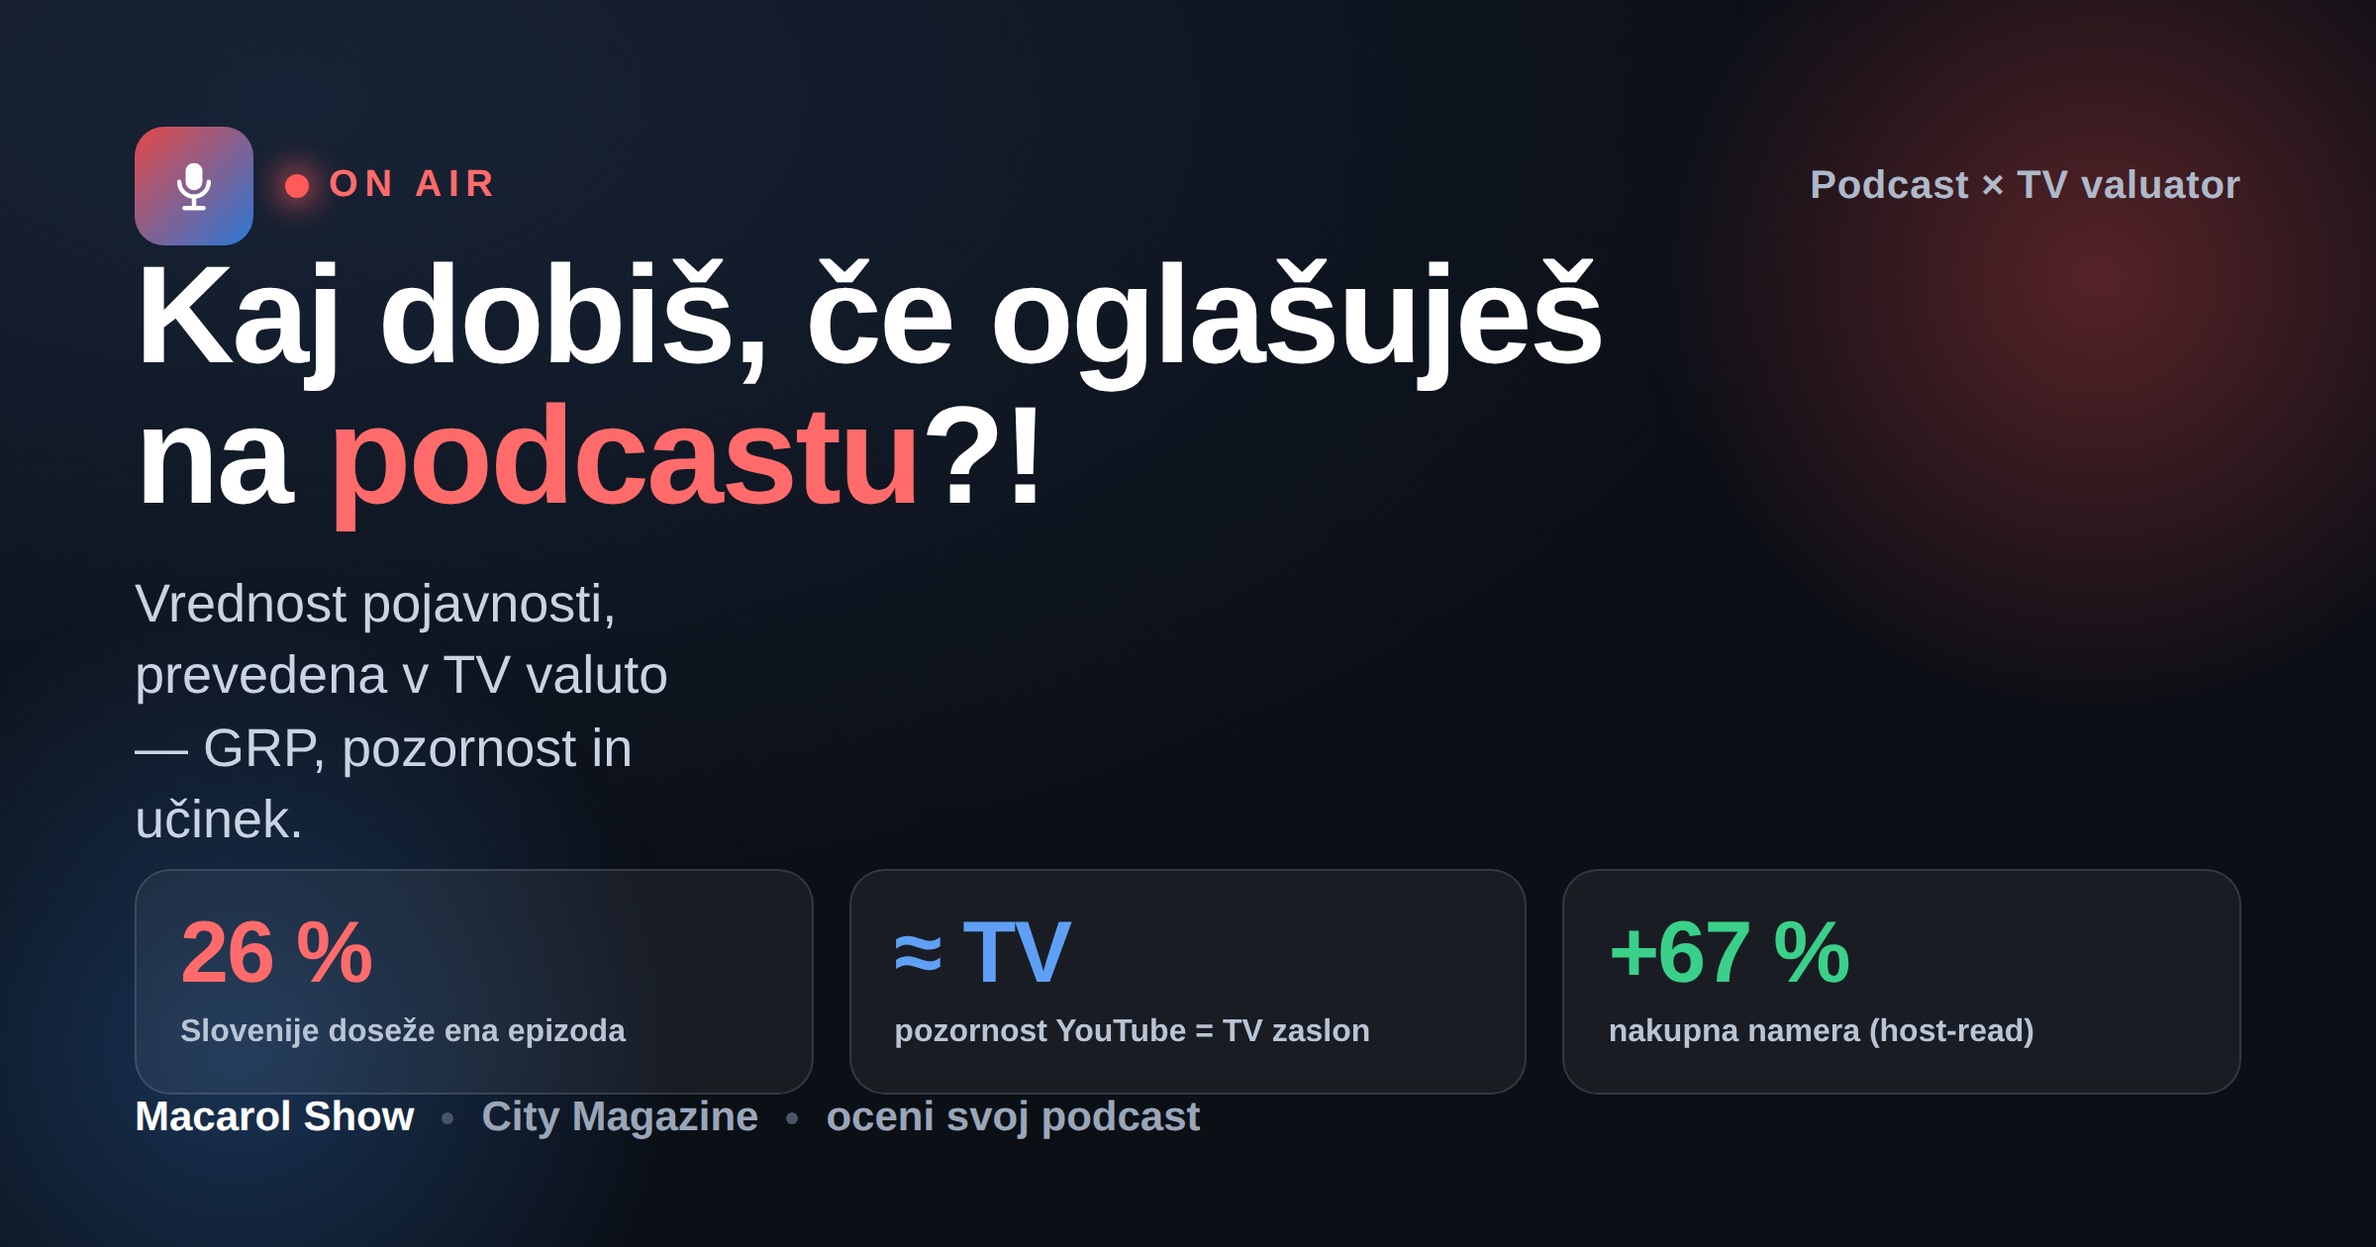
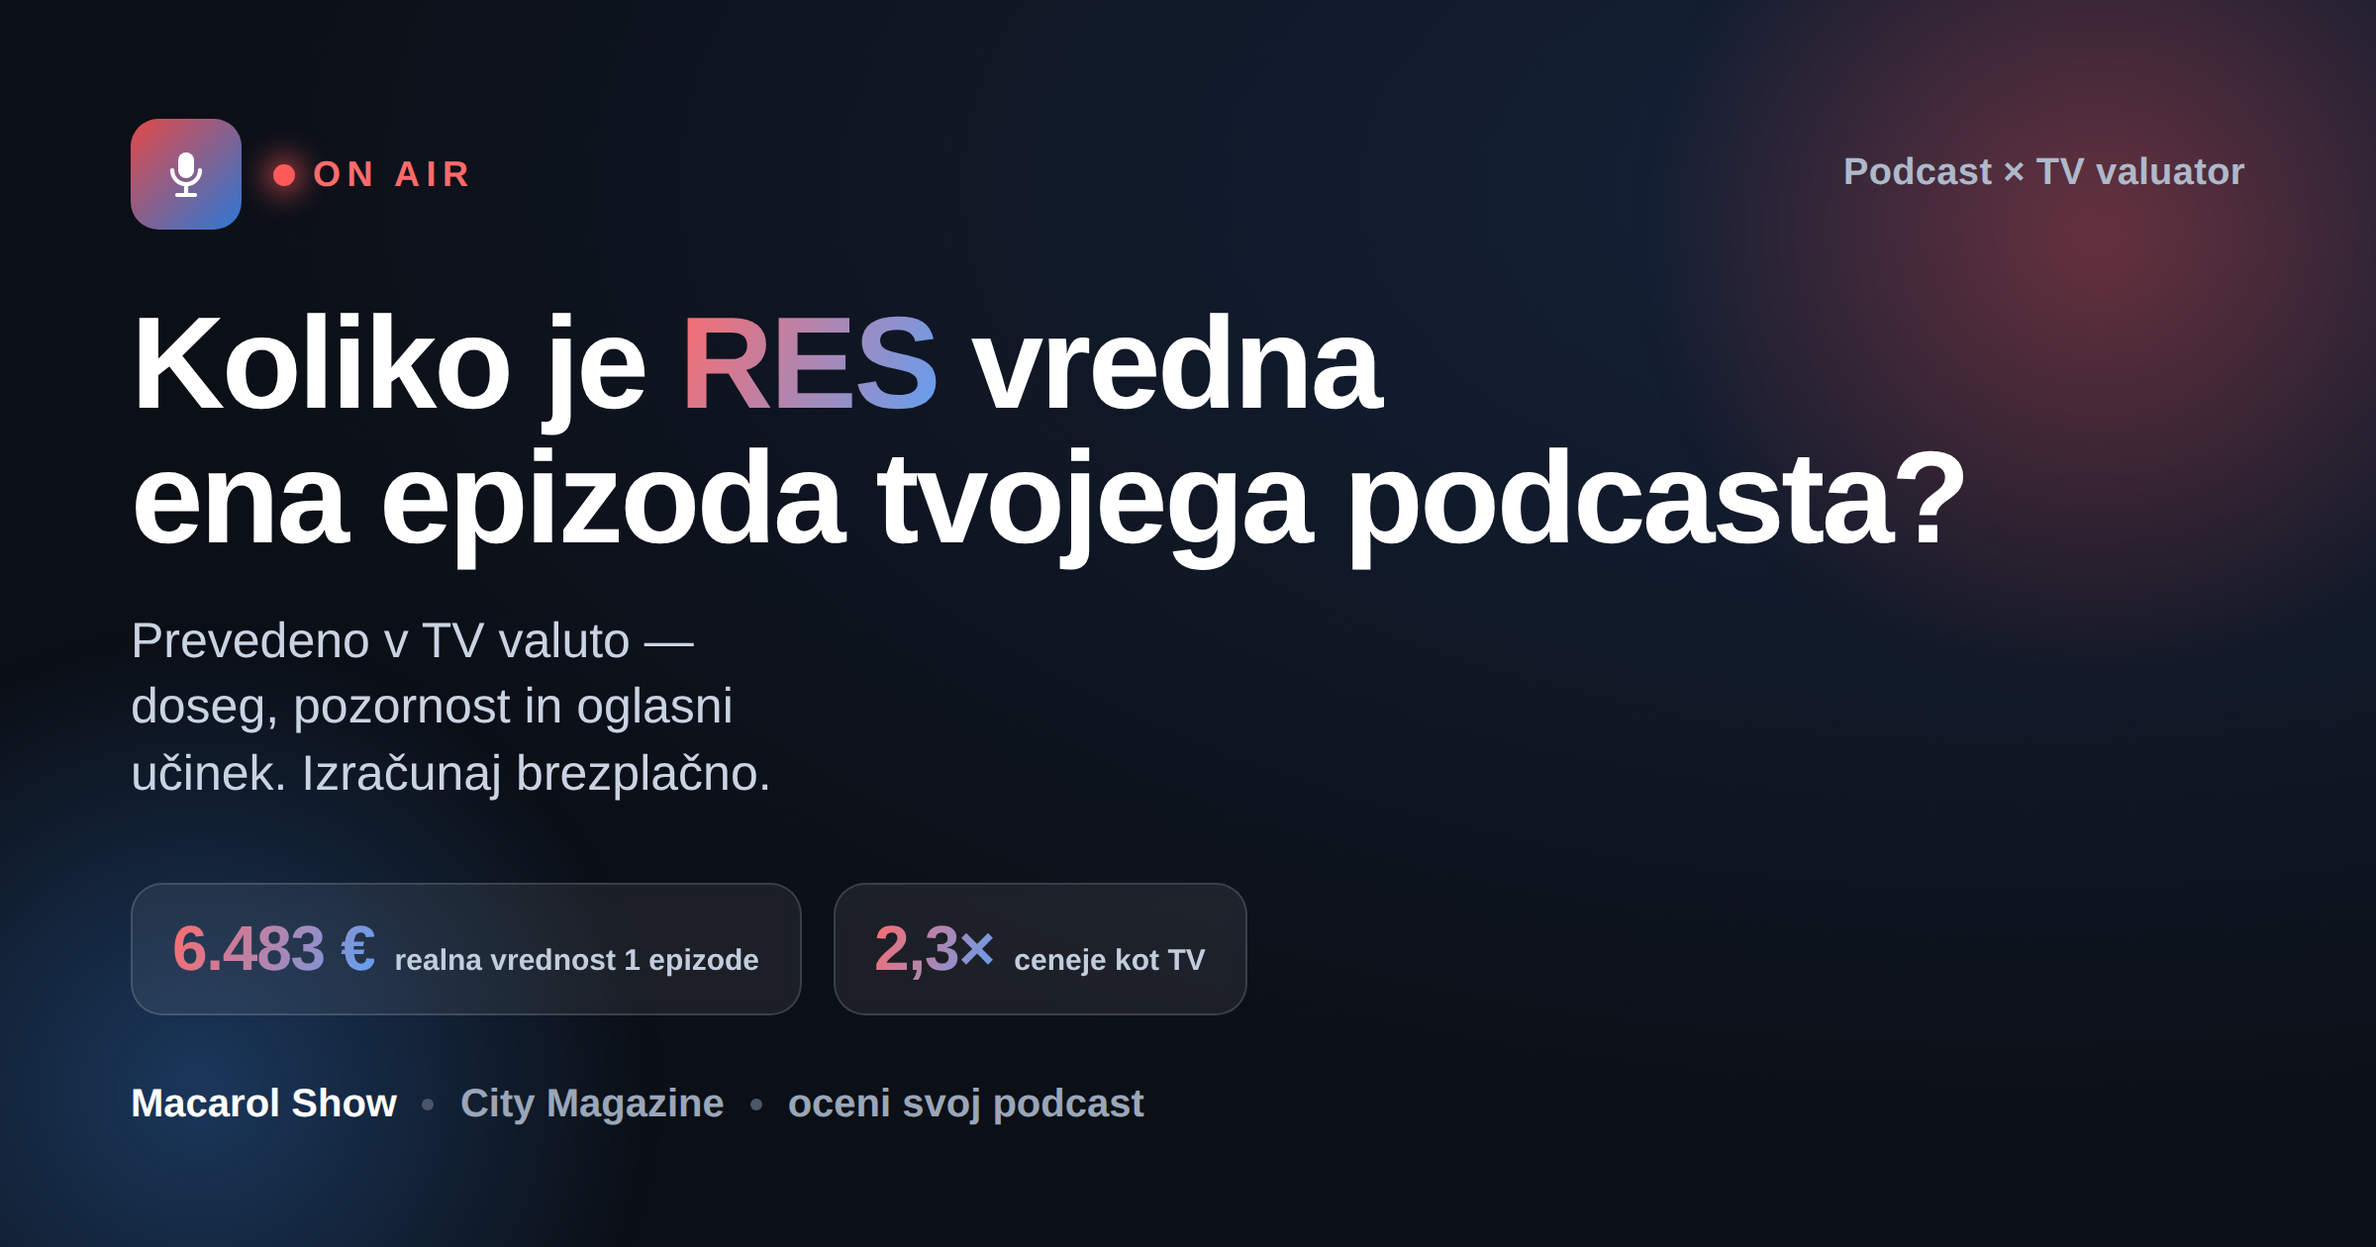
Novi clickbait OG images + posodobljen OG meta
- 4 nove share slike (assets/): og-cover.png (vprašalni kavelj + 6.483 EUR /
  2,3x ceneje), og-provokacija.png ('Zakaj pametni oglaševalci zapuščajo TV'),
  og-stevilka.png (velika 6.483 EUR), share-square.png (1080)
- Prenovljen assets/share-template.html s štirimi variantami
- OG/Twitter meta usklajen z novo primarno sliko (naslov, opis, alt)

Claude-Session: https://claude.ai/code/session_01DFQCwydQcWfLKzkBoLtrAo

diff --git a/assets/share-template.html b/assets/share-template.html
@@ -2,91 +2,142 @@
 <html lang="sl"><head><meta charset="utf-8">
 <style>
 *{margin:0;padding:0;box-sizing:border-box}
-body{background:#333;font-family:-apple-system,BlinkMacSystemFont,"Segoe UI",Roboto,Arial,sans-serif}
-.card{position:relative;overflow:hidden;color:#fff;
-  background:radial-gradient(120% 120% at 12% 8%, #172336 0%, #0b0f16 55%, #0b0f16 100%);
-  display:flex;flex-direction:column;justify-content:space-between}
-.card::before{content:"";position:absolute;right:-120px;top:-120px;width:520px;height:520px;border-radius:50%;
-  background:radial-gradient(circle, rgba(227,73,72,.35), transparent 62%);filter:blur(8px)}
-.card::after{content:"";position:absolute;left:-140px;bottom:-160px;width:520px;height:520px;border-radius:50%;
-  background:radial-gradient(circle, rgba(58,135,229,.30), transparent 62%);filter:blur(8px)}
-.pad{position:relative;z-index:2;padding:64px 68px;display:flex;flex-direction:column;justify-content:space-between;height:100%}
+body{background:#222;font-family:-apple-system,BlinkMacSystemFont,"Segoe UI",Roboto,Arial,sans-serif}
+.card{position:relative;overflow:hidden;color:#fff;display:flex;flex-direction:column;margin:0 0 40px}
+.pad{position:relative;z-index:3;padding:60px 66px;display:flex;flex-direction:column;justify-content:space-between;height:100%}
 .top{display:flex;align-items:center;gap:16px}
-.mic{width:60px;height:60px;border-radius:15px;background:linear-gradient(135deg,#e34948,#2a78d6);display:flex;align-items:center;justify-content:center}
-.onair{display:inline-flex;align-items:center;gap:10px;font-size:19px;font-weight:800;letter-spacing:.18em;text-transform:uppercase;color:#ff6b6b}
-.onair .dot{width:12px;height:12px;border-radius:50%;background:#ff5a5a;box-shadow:0 0 16px 3px rgba(255,90,90,.8)}
-.kicker{margin-left:auto;font-size:20px;font-weight:600;color:#aeb9c9;letter-spacing:.02em}
-h1{font-weight:850;letter-spacing:-.02em;line-height:1.02;text-wrap:balance}
-h1 .em{color:#ff6b6b}
+.mic{width:56px;height:56px;border-radius:14px;background:linear-gradient(135deg,#e34948,#2a78d6);display:flex;align-items:center;justify-content:center;flex:none}
+.onair{display:inline-flex;align-items:center;gap:9px;font-size:18px;font-weight:800;letter-spacing:.18em;text-transform:uppercase;color:#ff6b6b}
+.onair .dot{width:11px;height:11px;border-radius:50%;background:#ff5a5a;box-shadow:0 0 15px 3px rgba(255,90,90,.8)}
+.kicker{margin-left:auto;font-size:19px;font-weight:700;color:#aeb9c9;letter-spacing:.01em}
+h1{font-weight:850;letter-spacing:-.025em;line-height:1.03;text-wrap:balance}
 .sub{color:#c9d3e2;font-weight:500;line-height:1.35}
-.stats{display:flex;gap:18px}
-.stat{background:rgba(255,255,255,.06);border:1px solid rgba(255,255,255,.12);border-radius:18px;padding:20px 22px;flex:1;backdrop-filter:blur(4px)}
-.stat .n{font-weight:850;letter-spacing:-.02em;line-height:1}
-.stat .l{color:#b9c4d4;font-weight:600;margin-top:8px;line-height:1.25}
-.stat.a .n{color:#ff6b6b}.stat.b .n{color:#5fa0f5}.stat.c .n{color:#3ad08a}
-.foot{display:flex;align-items:center;gap:14px;color:#9aa6b8;font-weight:600}
+.foot{display:flex;align-items:center;gap:13px;color:#9aa6b8;font-weight:600;font-size:20px}
 .foot .sep{width:6px;height:6px;border-radius:50%;background:#4a5567}
-.brandname{color:#fff}
+.foot .brandname{color:#fff}
+.grad{background:linear-gradient(115deg,#ff6b6b 0%,#5fa0f5 100%);-webkit-background-clip:text;background-clip:text;color:transparent}
+.chip{display:inline-flex;align-items:baseline;gap:10px;background:rgba(255,255,255,.07);border:1px solid rgba(255,255,255,.14);
+  border-radius:16px;padding:14px 20px;backdrop-filter:blur(4px)}
+.chip .cn{font-weight:850;letter-spacing:-.02em}
+.chip .cl{color:#c2cddd;font-weight:600}
+.glow{position:absolute;border-radius:50%;filter:blur(10px);z-index:1}
 
-/* OG 1200x630 */
-#og{width:1200px;height:630px}
-#og h1{font-size:70px}
-#og .sub{font-size:27px;margin-top:20px;max-width:20ch}
-#og .stats{margin-top:6px}
-#og .stat .n{font-size:44px}
-#og .stat .l{font-size:16px}
-#og .foot{font-size:21px}
+/* ============ OG 1 — question hook ============ */
+#og1{width:1200px;height:630px;background:radial-gradient(130% 130% at 85% 15%, #16233a 0%, #0b0f16 60%)}
+#og1 .g1{right:-120px;top:-140px;width:520px;height:520px;background:radial-gradient(circle,rgba(227,73,72,.4),transparent 62%)}
+#og1 .g2{left:-160px;bottom:-180px;width:520px;height:520px;background:radial-gradient(circle,rgba(58,135,229,.34),transparent 62%)}
+#og1 h1{font-size:66px}
+#og1 .sub{font-size:25px;margin-top:22px;max-width:26ch}
+#og1 .chips{display:flex;gap:16px;margin-top:4px}
+#og1 .chip .cn{font-size:32px}
+#og1 .chip .cl{font-size:15px}
 
-/* Square 1080x1080 */
-#sq{width:1080px;height:1080px;margin-top:40px}
-#sq h1{font-size:96px}
-#sq .sub{font-size:34px;margin-top:26px;max-width:18ch}
-#sq .stat .n{font-size:60px}
-#sq .stat .l{font-size:21px}
-#sq .foot{font-size:26px}
-#sq .stats{flex-direction:column}
-#sq .stat{display:flex;align-items:baseline;gap:20px}
-#sq .stat .l{margin-top:0}
+/* ============ OG 2 — provocation, leave TV ============ */
+#og2{width:1200px;height:630px;background:linear-gradient(160deg,#0b1b30 0%,#0b0f16 70%)}
+#og2 .g1{left:-140px;top:-160px;width:560px;height:560px;background:radial-gradient(circle,rgba(58,135,229,.4),transparent 62%)}
+#og2 h1{font-size:70px}
+#og2 h1 .em{color:#ff6b6b}
+#og2 .stats{display:flex;gap:18px}
+#og2 .stat{flex:1;background:rgba(255,255,255,.06);border:1px solid rgba(255,255,255,.13);border-radius:18px;padding:20px 22px}
+#og2 .stat .n{font-weight:850;font-size:42px;letter-spacing:-.02em}
+#og2 .stat.a .n{color:#ff6b6b}#og2 .stat.b .n{color:#5fa0f5}#og2 .stat.c .n{color:#3ad08a}
+#og2 .stat .l{color:#b9c4d4;font-weight:600;font-size:16px;margin-top:8px;line-height:1.25}
+
+/* ============ OG 3 — the big number ============ */
+#og3{width:1200px;height:630px;background:radial-gradient(120% 120% at 15% 12%, #1a1330 0%, #0a0e15 60%)}
+#og3 .g1{right:-120px;bottom:-160px;width:600px;height:600px;background:radial-gradient(circle,rgba(227,73,72,.34),transparent 60%)}
+#og3 .g2{right:180px;top:-160px;width:460px;height:460px;background:radial-gradient(circle,rgba(58,135,229,.3),transparent 62%)}
+#og3 .huge{font-size:190px;font-weight:850;letter-spacing:-.04em;line-height:.9}
+#og3 h1{font-size:44px;margin-top:6px}
+#og3 .sub{font-size:22px;margin-top:14px;max-width:34ch}
+
+/* ============ Square 1080 ============ */
+#sq{width:1080px;height:1080px;background:radial-gradient(130% 130% at 80% 10%, #16233a 0%, #0b0f16 62%)}
+#sq .g1{right:-160px;top:-160px;width:620px;height:620px;background:radial-gradient(circle,rgba(227,73,72,.4),transparent 62%)}
+#sq .g2{left:-180px;bottom:-200px;width:620px;height:620px;background:radial-gradient(circle,rgba(58,135,229,.32),transparent 62%)}
+#sq h1{font-size:92px}
+#sq .huge{font-size:150px;font-weight:850;letter-spacing:-.03em;line-height:.9;margin-top:8px}
+#sq .sub{font-size:32px;margin-top:24px;max-width:20ch}
+#sq .foot{font-size:25px}
 </style></head>
 <body>
 
-<div class="card" id="og">
+<!-- OG 1: QUESTION HOOK -->
+<div class="card" id="og1">
+  <span class="glow g1"></span><span class="glow g2"></span>
   <div class="pad">
     <div class="top">
-      <span class="mic"><svg width="34" height="34" viewBox="0 0 32 32"><rect x="12" y="5" width="8" height="13" rx="4" fill="#fff"/><path d="M9 14a7 7 0 0 0 14 0" fill="none" stroke="#fff" stroke-width="2.1" stroke-linecap="round"/><line x1="16" y1="21" x2="16" y2="25.5" stroke="#fff" stroke-width="2.1" stroke-linecap="round"/><line x1="11.5" y1="26.5" x2="20.5" y2="26.5" stroke="#fff" stroke-width="2.1" stroke-linecap="round"/></svg></span>
+      <span class="mic"><svg width="32" height="32" viewBox="0 0 32 32"><rect x="12" y="5" width="8" height="13" rx="4" fill="#fff"/><path d="M9 14a7 7 0 0 0 14 0" fill="none" stroke="#fff" stroke-width="2.1" stroke-linecap="round"/><line x1="16" y1="21" x2="16" y2="25.5" stroke="#fff" stroke-width="2.1" stroke-linecap="round"/><line x1="11.5" y1="26.5" x2="20.5" y2="26.5" stroke="#fff" stroke-width="2.1" stroke-linecap="round"/></svg></span>
       <span class="onair"><span class="dot"></span>On air</span>
       <span class="kicker">Podcast × TV valuator</span>
     </div>
     <div>
-      <h1>Kaj dobiš, če oglašuješ<br>na <span class="em">podcastu</span>?!</h1>
-      <div class="sub">Vrednost pojavnosti, prevedena v TV valuto — GRP, pozornost in učinek.</div>
+      <h1>Koliko je <span class="grad">RES</span> vredna<br>ena epizoda tvojega podcasta?</h1>
+      <div class="sub">Prevedeno v TV valuto — doseg, pozornost in oglasni učinek. Izračunaj brezplačno.</div>
+    </div>
+    <div class="chips">
+      <span class="chip"><span class="cn grad">6.483 €</span><span class="cl">realna vrednost 1 epizode</span></span>
+      <span class="chip"><span class="cn grad">2,3×</span><span class="cl">ceneje kot TV</span></span>
+    </div>
+    <div class="foot"><span class="brandname">Macarol Show</span><span class="sep"></span>City Magazine<span class="sep"></span>oceni svoj podcast</div>
+  </div>
+</div>
+
+<!-- OG 2: PROVOCATION -->
+<div class="card" id="og2">
+  <span class="glow g1"></span>
+  <div class="pad">
+    <div class="top">
+      <span class="mic"><svg width="32" height="32" viewBox="0 0 32 32"><rect x="12" y="5" width="8" height="13" rx="4" fill="#fff"/><path d="M9 14a7 7 0 0 0 14 0" fill="none" stroke="#fff" stroke-width="2.1" stroke-linecap="round"/><line x1="16" y1="21" x2="16" y2="25.5" stroke="#fff" stroke-width="2.1" stroke-linecap="round"/><line x1="11.5" y1="26.5" x2="20.5" y2="26.5" stroke="#fff" stroke-width="2.1" stroke-linecap="round"/></svg></span>
+      <span class="onair"><span class="dot"></span>On air</span>
+      <span class="kicker">Podcast × TV valuator</span>
+    </div>
+    <div>
+      <h1>Zakaj pametni oglaševalci<br><span class="em">zapuščajo TV</span>.</h1>
+      <div class="sub" style="font-size:23px;margin-top:18px;max-width:30ch">Linearna TV je padla pod polovico gledanosti — pozornost pa v telefon.</div>
     </div>
     <div class="stats">
-      <div class="stat a"><div class="n">26 %</div><div class="l">Slovenije doseže ena epizoda</div></div>
-      <div class="stat b"><div class="n">≈ TV</div><div class="l">pozornost YouTube = TV zaslon</div></div>
+      <div class="stat a"><div class="n">26 %</div><div class="l">Slovenije v eni epizodi</div></div>
+      <div class="stat b"><div class="n">≥ TV</div><div class="l">pozornost audia in YouTuba</div></div>
       <div class="stat c"><div class="n">+67 %</div><div class="l">nakupna namera (host-read)</div></div>
     </div>
     <div class="foot"><span class="brandname">Macarol Show</span><span class="sep"></span>City Magazine<span class="sep"></span>oceni svoj podcast</div>
   </div>
 </div>
 
-<div class="card" id="sq">
+<!-- OG 3: BIG NUMBER -->
+<div class="card" id="og3">
+  <span class="glow g1"></span><span class="glow g2"></span>
   <div class="pad">
     <div class="top">
-      <span class="mic"><svg width="34" height="34" viewBox="0 0 32 32"><rect x="12" y="5" width="8" height="13" rx="4" fill="#fff"/><path d="M9 14a7 7 0 0 0 14 0" fill="none" stroke="#fff" stroke-width="2.1" stroke-linecap="round"/><line x1="16" y1="21" x2="16" y2="25.5" stroke="#fff" stroke-width="2.1" stroke-linecap="round"/><line x1="11.5" y1="26.5" x2="20.5" y2="26.5" stroke="#fff" stroke-width="2.1" stroke-linecap="round"/></svg></span>
+      <span class="mic"><svg width="32" height="32" viewBox="0 0 32 32"><rect x="12" y="5" width="8" height="13" rx="4" fill="#fff"/><path d="M9 14a7 7 0 0 0 14 0" fill="none" stroke="#fff" stroke-width="2.1" stroke-linecap="round"/><line x1="16" y1="21" x2="16" y2="25.5" stroke="#fff" stroke-width="2.1" stroke-linecap="round"/><line x1="11.5" y1="26.5" x2="20.5" y2="26.5" stroke="#fff" stroke-width="2.1" stroke-linecap="round"/></svg></span>
       <span class="onair"><span class="dot"></span>On air</span>
       <span class="kicker">Podcast × TV valuator</span>
     </div>
     <div>
-      <h1>Kaj dobiš, če oglašuješ na <span class="em">podcastu</span>?!</h1>
-      <div class="sub">Vrednost pojavnosti, prevedena v TV valuto.</div>
-    </div>
-    <div class="stats">
-      <div class="stat a"><div class="n">26 %</div><div class="l">Slovenije doseže ena epizoda podcasta</div></div>
-      <div class="stat b"><div class="n">≈ TV</div><div class="l">pozornost YouTuba je enaka TV zaslonu</div></div>
-      <div class="stat c"><div class="n">+67 %</div><div class="l">višja nakupna namera po priporočilu voditelja</div></div>
+      <div class="huge grad">6.483&nbsp;€</div>
+      <h1>Toliko je vredna <span class="grad">ena epizoda</span>. Tvoja?</h1>
+      <div class="sub">Realna vrednost z vsemi elementi: utežena pozornost formatov, kredibilnost creatorja in upad TV učinka.</div>
     </div>
     <div class="foot"><span class="brandname">Macarol Show</span><span class="sep"></span>City Magazine<span class="sep"></span>oceni svoj podcast</div>
+  </div>
+</div>
+
+<!-- SQUARE -->
+<div class="card" id="sq">
+  <span class="glow g1"></span><span class="glow g2"></span>
+  <div class="pad">
+    <div class="top">
+      <span class="mic"><svg width="32" height="32" viewBox="0 0 32 32"><rect x="12" y="5" width="8" height="13" rx="4" fill="#fff"/><path d="M9 14a7 7 0 0 0 14 0" fill="none" stroke="#fff" stroke-width="2.1" stroke-linecap="round"/><line x1="16" y1="21" x2="16" y2="25.5" stroke="#fff" stroke-width="2.1" stroke-linecap="round"/><line x1="11.5" y1="26.5" x2="20.5" y2="26.5" stroke="#fff" stroke-width="2.1" stroke-linecap="round"/></svg></span>
+      <span class="onair"><span class="dot"></span>On air</span>
+      <span class="kicker">Podcast × TV</span>
+    </div>
+    <div>
+      <h1>Koliko je <span class="grad">RES</span> vredna ena epizoda?</h1>
+      <div class="huge grad">6.483&nbsp;€</div>
+      <div class="sub">Doseg podcasta, prevedeno v TV valuto. Izračunaj svojega — brezplačno.</div>
+    </div>
+    <div class="foot"><span class="brandname">Macarol Show</span><span class="sep"></span>City Magazine</div>
   </div>
 </div>
 

diff --git a/index.html b/index.html
@@ -17,16 +17,16 @@
 <meta property="og:site_name" content="Podcast × TV valuator">
 <meta property="og:locale" content="sl_SI">
 <meta property="og:url" content="https://janmacarolvrabec.github.io/podcast-vs-tv/">
-<meta property="og:title" content="Kaj dobiš, če oglašuješ na podcastu?! — Podcast × TV valuator">
-<meta property="og:description" content="Vrednost pojavnosti na podcastu, prevedena v TV valuto: GRP, pozornost in oglasni učinek. Ena epizoda doseže ~26 % Slovenije; YouTube pozornost ≈ TV; host-read +67 % nakupne namere.">
+<meta property="og:title" content="Koliko je RES vredna ena epizoda tvojega podcasta?">
+<meta property="og:description" content="Doseg podcasta, prevedeno v TV valuto — GRP, pozornost in oglasni učinek. Realna vrednost 1 epizode ≈ 6.483 € · do 2,3× ceneje kot TV. Vpiši svoje dosege in izračunaj brezplačno.">
 <meta property="og:image" content="https://janmacarolvrabec.github.io/podcast-vs-tv/assets/og-cover.png">
 <meta property="og:image:width" content="2400">
 <meta property="og:image:height" content="1260">
-<meta property="og:image:alt" content="Kaj dobiš, če oglašuješ na podcastu?! — Podcast × TV valuator">
+<meta property="og:image:alt" content="Koliko je RES vredna ena epizoda tvojega podcasta? — Podcast × TV valuator">
 <!-- Twitter -->
 <meta name="twitter:card" content="summary_large_image">
-<meta name="twitter:title" content="Kaj dobiš, če oglašuješ na podcastu?!">
-<meta name="twitter:description" content="Vrednost pojavnosti na podcastu, prevedena v TV valuto — GRP, pozornost in oglasni učinek. Vpiši svoje dosege in dobi vrednotenje.">
+<meta name="twitter:title" content="Koliko je RES vredna ena epizoda tvojega podcasta?">
+<meta name="twitter:description" content="Doseg podcasta v TV valuti — GRP, pozornost in oglasni učinek. Realna vrednost 1 epizode ≈ 6.483 €, do 2,3× ceneje kot TV. Izračunaj svojega brezplačno.">
 <meta name="twitter:image" content="https://janmacarolvrabec.github.io/podcast-vs-tv/assets/og-cover.png">
 <style>
 :root{
